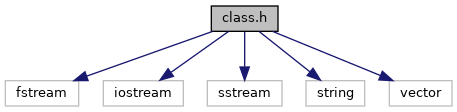
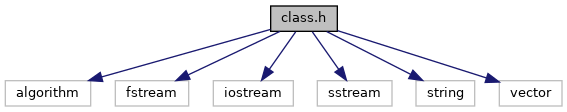
Update Doxy

Changed region(s): [[0.0, 0.0268, 1.0, 0.9643], [0.3063, 0.375, 0.3982, 0.5089], [0.5208, 0.9375, 0.5821, 0.9643]]

diff --git a/html/class_8h_source.html b/html/class_8h_source.html
@@ -66,96 +66,97 @@ $(function() {
 </div><!--header-->
 <div class="contents">
 <a href="class_8h.html">См. документацию.</a><div class="fragment"><div class="line"><a name="l00001"></a><span class="lineno">    1</span>&#160; </div>
-<div class="line"><a name="l00009"></a><span class="lineno">    9</span>&#160;<span class="preprocessor">#include &lt;fstream&gt;</span></div>
-<div class="line"><a name="l00010"></a><span class="lineno">   10</span>&#160;<span class="preprocessor">#include &lt;iostream&gt;</span></div>
-<div class="line"><a name="l00011"></a><span class="lineno">   11</span>&#160;<span class="preprocessor">#include &lt;sstream&gt;</span></div>
-<div class="line"><a name="l00012"></a><span class="lineno">   12</span>&#160;<span class="preprocessor">#include &lt;string&gt;</span></div>
-<div class="line"><a name="l00013"></a><span class="lineno">   13</span>&#160;<span class="preprocessor">#include &lt;vector&gt;</span></div>
-<div class="line"><a name="l00014"></a><span class="lineno">   14</span>&#160; </div>
+<div class="line"><a name="l00009"></a><span class="lineno">    9</span>&#160;<span class="preprocessor">#include &lt;algorithm&gt;</span></div>
+<div class="line"><a name="l00010"></a><span class="lineno">   10</span>&#160;<span class="preprocessor">#include &lt;fstream&gt;</span></div>
+<div class="line"><a name="l00011"></a><span class="lineno">   11</span>&#160;<span class="preprocessor">#include &lt;iostream&gt;</span></div>
+<div class="line"><a name="l00012"></a><span class="lineno">   12</span>&#160;<span class="preprocessor">#include &lt;sstream&gt;</span></div>
+<div class="line"><a name="l00013"></a><span class="lineno">   13</span>&#160;<span class="preprocessor">#include &lt;string&gt;</span></div>
+<div class="line"><a name="l00014"></a><span class="lineno">   14</span>&#160;<span class="preprocessor">#include &lt;vector&gt;</span></div>
 <div class="line"><a name="l00015"></a><span class="lineno">   15</span>&#160; </div>
-<div class="line"><a name="l00016"></a><span class="lineno">   16</span>&#160;<span class="preprocessor">#ifndef CLASSES</span></div>
-<div class="line"><a name="l00017"></a><span class="lineno">   17</span>&#160;<span class="preprocessor">#define CLASSES</span></div>
-<div class="line"><a name="l00018"></a><span class="lineno">   18</span>&#160; </div>
-<div class="line"><a name="l00031"></a><span class="lineno"><a class="line" href="classDate.html">   31</a></span>&#160;<span class="keyword">class </span><a class="code" href="classDate.html">Date</a> {</div>
-<div class="line"><a name="l00032"></a><span class="lineno">   32</span>&#160; </div>
-<div class="line"><a name="l00033"></a><span class="lineno">   33</span>&#160;    <span class="keyword">friend</span> std::ostream&amp; operator&lt;&lt;(std::ostream &amp;os, <span class="keyword">const</span> <a class="code" href="classDate.html">Date</a> &amp;date);</div>
-<div class="line"><a name="l00034"></a><span class="lineno">   34</span>&#160;    <span class="keywordtype">int</span> day, month, year;</div>
-<div class="line"><a name="l00035"></a><span class="lineno">   35</span>&#160; </div>
-<div class="line"><a name="l00036"></a><span class="lineno">   36</span>&#160;<span class="keyword">public</span>:</div>
-<div class="line"><a name="l00037"></a><span class="lineno">   37</span>&#160;    <a class="code" href="classDate.html">Date</a>() : day(0), month(0), year(0) {}</div>
-<div class="line"><a name="l00038"></a><span class="lineno">   38</span>&#160;    <a class="code" href="classDate.html">Date</a>(<span class="keywordtype">int</span> day, <span class="keywordtype">int</span> month, <span class="keywordtype">int</span> year);</div>
-<div class="line"><a name="l00039"></a><span class="lineno">   39</span>&#160; </div>
-<div class="line"><a name="l00041"></a><span class="lineno"><a class="line" href="classDate.html#a7d6dd2901ebf17d14caeecc6bc0cee24">   41</a></span>&#160;    <span class="keywordtype">int</span> <a class="code" href="classDate.html#a7d6dd2901ebf17d14caeecc6bc0cee24">getDay</a>() { <span class="keywordflow">return</span> day; }</div>
-<div class="line"><a name="l00042"></a><span class="lineno">   42</span>&#160; </div>
-<div class="line"><a name="l00044"></a><span class="lineno"><a class="line" href="classDate.html#a04d8a4d8bcfc67f7167c66a635e2f35a">   44</a></span>&#160;    <span class="keywordtype">int</span> <a class="code" href="classDate.html#a04d8a4d8bcfc67f7167c66a635e2f35a">getMonth</a>() { <span class="keywordflow">return</span> month; }</div>
-<div class="line"><a name="l00045"></a><span class="lineno">   45</span>&#160; </div>
-<div class="line"><a name="l00047"></a><span class="lineno"><a class="line" href="classDate.html#a229acd3344780529ba6b7255b87b01f0">   47</a></span>&#160;    <span class="keywordtype">int</span> <a class="code" href="classDate.html#a229acd3344780529ba6b7255b87b01f0">getYear</a>() { <span class="keywordflow">return</span> year; }</div>
-<div class="line"><a name="l00048"></a><span class="lineno">   48</span>&#160; </div>
-<div class="line"><a name="l00049"></a><span class="lineno">   49</span>&#160;    <span class="keywordtype">bool</span> operator==(<span class="keyword">const</span> <a class="code" href="classDate.html">Date</a>&amp; date);</div>
-<div class="line"><a name="l00050"></a><span class="lineno">   50</span>&#160;    <span class="keywordtype">bool</span> operator&gt;(<span class="keyword">const</span> <a class="code" href="classDate.html">Date</a>&amp; date);</div>
-<div class="line"><a name="l00051"></a><span class="lineno">   51</span>&#160;    <span class="keywordtype">bool</span> operator&lt;(<span class="keyword">const</span> <a class="code" href="classDate.html">Date</a>&amp; date);</div>
-<div class="line"><a name="l00052"></a><span class="lineno">   52</span>&#160;    <span class="keywordtype">bool</span> operator!=(<span class="keyword">const</span> <a class="code" href="classDate.html">Date</a>&amp; date);</div>
-<div class="line"><a name="l00053"></a><span class="lineno">   53</span>&#160;    <span class="keywordtype">bool</span> operator&lt;=(<span class="keyword">const</span> <a class="code" href="classDate.html">Date</a>&amp; date);</div>
-<div class="line"><a name="l00054"></a><span class="lineno">   54</span>&#160;    <span class="keywordtype">bool</span> operator&gt;=(<span class="keyword">const</span> <a class="code" href="classDate.html">Date</a>&amp; date);</div>
-<div class="line"><a name="l00055"></a><span class="lineno">   55</span>&#160;};</div>
-<div class="line"><a name="l00074"></a><span class="lineno"><a class="line" href="classEmployee.html">   74</a></span>&#160;<span class="keyword">class </span><a class="code" href="classEmployee.html">Employee</a> {</div>
-<div class="line"><a name="l00075"></a><span class="lineno">   75</span>&#160; </div>
-<div class="line"><a name="l00076"></a><span class="lineno">   76</span>&#160;    <span class="keyword">friend</span> std::ostream&amp; operator&lt;&lt;(std::ostream &amp;os, <span class="keyword">const</span> <a class="code" href="classEmployee.html">Employee</a> &amp;employee);</div>
-<div class="line"><a name="l00077"></a><span class="lineno">   77</span>&#160; </div>
-<div class="line"><a name="l00078"></a><span class="lineno">   78</span>&#160;    std::string fullName;</div>
-<div class="line"><a name="l00079"></a><span class="lineno">   79</span>&#160;    std::string departmentName;</div>
-<div class="line"><a name="l00080"></a><span class="lineno">   80</span>&#160;    std::string jobTitle;</div>
-<div class="line"><a name="l00081"></a><span class="lineno">   81</span>&#160;    <a class="code" href="classDate.html">Date</a> workEntry;</div>
-<div class="line"><a name="l00082"></a><span class="lineno">   82</span>&#160; </div>
-<div class="line"><a name="l00083"></a><span class="lineno">   83</span>&#160;<span class="keyword">public</span>:</div>
-<div class="line"><a name="l00084"></a><span class="lineno">   84</span>&#160;    <a class="code" href="classEmployee.html">Employee</a>(std::string fullName, std::string departmentName, </div>
-<div class="line"><a name="l00085"></a><span class="lineno">   85</span>&#160;             std::string jobTitle, <a class="code" href="classDate.html">Date</a> workEntry);</div>
-<div class="line"><a name="l00086"></a><span class="lineno">   86</span>&#160; </div>
-<div class="line"><a name="l00087"></a><span class="lineno">   87</span>&#160;    <span class="keywordtype">bool</span> operator==(<span class="keyword">const</span> <a class="code" href="classEmployee.html">Employee</a>&amp; employee);</div>
-<div class="line"><a name="l00088"></a><span class="lineno">   88</span>&#160;    <span class="keywordtype">bool</span> operator&gt;(<span class="keyword">const</span> <a class="code" href="classEmployee.html">Employee</a>&amp; employee);</div>
-<div class="line"><a name="l00089"></a><span class="lineno">   89</span>&#160;    <span class="keywordtype">bool</span> operator&lt;(<span class="keyword">const</span> <a class="code" href="classEmployee.html">Employee</a>&amp; employee);</div>
-<div class="line"><a name="l00090"></a><span class="lineno">   90</span>&#160;    <span class="keywordtype">bool</span> operator!=(<span class="keyword">const</span> <a class="code" href="classEmployee.html">Employee</a>&amp; employee);</div>
-<div class="line"><a name="l00091"></a><span class="lineno">   91</span>&#160;    <span class="keywordtype">bool</span> operator&lt;=(<span class="keyword">const</span> <a class="code" href="classEmployee.html">Employee</a>&amp; employee);</div>
-<div class="line"><a name="l00092"></a><span class="lineno">   92</span>&#160;    <span class="keywordtype">bool</span> operator&gt;=(<span class="keyword">const</span> <a class="code" href="classEmployee.html">Employee</a>&amp; employee);</div>
-<div class="line"><a name="l00093"></a><span class="lineno">   93</span>&#160;};</div>
-<div class="line"><a name="l00094"></a><span class="lineno">   94</span>&#160; </div>
-<div class="line"><a name="l00095"></a><span class="lineno">   95</span>&#160;<span class="comment">// WRITE_TO_CSV AND READ_FROM_CSV FUNCTIONS</span></div>
-<div class="line"><a name="l00096"></a><span class="lineno">   96</span>&#160; </div>
-<div class="line"><a name="l00100"></a><span class="lineno">  100</span>&#160;std::vector&lt;Employee&gt; <a class="code" href="class_8h.html#a11edb7904e451afb3e36394037978548">readCSV</a>(<span class="keyword">const</span> std::string&amp; filename);</div>
-<div class="line"><a name="l00101"></a><span class="lineno">  101</span>&#160; </div>
-<div class="line"><a name="l00105"></a><span class="lineno">  105</span>&#160;<span class="keywordtype">void</span> <a class="code" href="class_8h.html#a4e4dcf3b3ddf7d035857ca4520a80494">writeCSV</a>(<span class="keyword">const</span> std::string &amp;filename, std::vector&lt;Employee&gt; employees);</div>
-<div class="line"><a name="l00106"></a><span class="lineno">  106</span>&#160; </div>
-<div class="line"><a name="l00107"></a><span class="lineno">  107</span>&#160;<span class="comment">// SORTING ALGORITHMS</span></div>
-<div class="line"><a name="l00108"></a><span class="lineno">  108</span>&#160; </div>
-<div class="line"><a name="l00110"></a><span class="lineno">  110</span>&#160;<span class="keywordtype">void</span> <a class="code" href="class_8h.html#abc2a348038b12e466b7d4dd153207f57">bubbleSort</a>(std::vector&lt;Employee&gt; &amp;employees);</div>
-<div class="line"><a name="l00111"></a><span class="lineno">  111</span>&#160; </div>
-<div class="line"><a name="l00113"></a><span class="lineno">  113</span>&#160;<span class="keywordtype">void</span> <a class="code" href="class_8h.html#a071eed2e596a0e32ab19a4c09b90cba4">heapSort</a>(std::vector&lt;Employee&gt; &amp;employee);</div>
-<div class="line"><a name="l00114"></a><span class="lineno">  114</span>&#160; </div>
-<div class="line"><a name="l00119"></a><span class="lineno">  119</span>&#160;<span class="keywordtype">void</span> <a class="code" href="class_8h.html#a1e3e2cb5e6a3b602c497ef4d3b68fd2a">mergeSort</a>(std::vector&lt;Employee&gt; &amp;employee, <span class="keywordtype">int</span> left, <span class="keywordtype">int</span> right);</div>
-<div class="line"><a name="l00120"></a><span class="lineno">  120</span>&#160; </div>
-<div class="line"><a name="l00121"></a><span class="lineno">  121</span>&#160;<span class="comment">// SUPPORT FUNCTIONS</span></div>
-<div class="line"><a name="l00122"></a><span class="lineno">  122</span>&#160; </div>
-<div class="line"><a name="l00125"></a><span class="lineno">  125</span>&#160;<span class="keywordtype">bool</span> <a class="code" href="class_8h.html#a6f0679faf5e5d586c9e7268642b85968">isCorrectDate</a>(<span class="keywordtype">int</span> day, <span class="keywordtype">int</span> month, <span class="keywordtype">int</span> year);</div>
-<div class="line"><a name="l00126"></a><span class="lineno">  126</span>&#160; </div>
-<div class="line"><a name="l00130"></a><span class="lineno">  130</span>&#160;<span class="keywordtype">bool</span> <a class="code" href="class_8h.html#a93c048236d65de98aafea9977568b913">isCorrectFormat</a>(std::string date);</div>
-<div class="line"><a name="l00131"></a><span class="lineno">  131</span>&#160; </div>
-<div class="line"><a name="l00135"></a><span class="lineno">  135</span>&#160;<a class="code" href="classDate.html">Date</a> <a class="code" href="class_8h.html#a7f4f8fda271ba0465c8ec4ddd12e6802">fromString</a>(std::string date);</div>
-<div class="line"><a name="l00136"></a><span class="lineno">  136</span>&#160; </div>
-<div class="line"><a name="l00137"></a><span class="lineno">  137</span>&#160;<span class="preprocessor">#endif</span></div>
+<div class="line"><a name="l00016"></a><span class="lineno">   16</span>&#160; </div>
+<div class="line"><a name="l00017"></a><span class="lineno">   17</span>&#160;<span class="preprocessor">#ifndef CLASSES</span></div>
+<div class="line"><a name="l00018"></a><span class="lineno">   18</span>&#160;<span class="preprocessor">#define CLASSES</span></div>
+<div class="line"><a name="l00019"></a><span class="lineno">   19</span>&#160; </div>
+<div class="line"><a name="l00032"></a><span class="lineno"><a class="line" href="classDate.html">   32</a></span>&#160;<span class="keyword">class </span><a class="code" href="classDate.html">Date</a> {</div>
+<div class="line"><a name="l00033"></a><span class="lineno">   33</span>&#160; </div>
+<div class="line"><a name="l00034"></a><span class="lineno">   34</span>&#160;    <span class="keyword">friend</span> std::ostream&amp; operator&lt;&lt;(std::ostream &amp;os, <span class="keyword">const</span> <a class="code" href="classDate.html">Date</a> &amp;date);</div>
+<div class="line"><a name="l00035"></a><span class="lineno">   35</span>&#160;    <span class="keywordtype">int</span> day, month, year;</div>
+<div class="line"><a name="l00036"></a><span class="lineno">   36</span>&#160; </div>
+<div class="line"><a name="l00037"></a><span class="lineno">   37</span>&#160;<span class="keyword">public</span>:</div>
+<div class="line"><a name="l00038"></a><span class="lineno">   38</span>&#160;    <a class="code" href="classDate.html">Date</a>() : day(0), month(0), year(0) {}</div>
+<div class="line"><a name="l00039"></a><span class="lineno">   39</span>&#160;    <a class="code" href="classDate.html">Date</a>(<span class="keywordtype">int</span> day, <span class="keywordtype">int</span> month, <span class="keywordtype">int</span> year);</div>
+<div class="line"><a name="l00040"></a><span class="lineno">   40</span>&#160; </div>
+<div class="line"><a name="l00042"></a><span class="lineno"><a class="line" href="classDate.html#a7d6dd2901ebf17d14caeecc6bc0cee24">   42</a></span>&#160;    <span class="keywordtype">int</span> <a class="code" href="classDate.html#a7d6dd2901ebf17d14caeecc6bc0cee24">getDay</a>() { <span class="keywordflow">return</span> day; }</div>
+<div class="line"><a name="l00043"></a><span class="lineno">   43</span>&#160; </div>
+<div class="line"><a name="l00045"></a><span class="lineno"><a class="line" href="classDate.html#a04d8a4d8bcfc67f7167c66a635e2f35a">   45</a></span>&#160;    <span class="keywordtype">int</span> <a class="code" href="classDate.html#a04d8a4d8bcfc67f7167c66a635e2f35a">getMonth</a>() { <span class="keywordflow">return</span> month; }</div>
+<div class="line"><a name="l00046"></a><span class="lineno">   46</span>&#160; </div>
+<div class="line"><a name="l00048"></a><span class="lineno"><a class="line" href="classDate.html#a229acd3344780529ba6b7255b87b01f0">   48</a></span>&#160;    <span class="keywordtype">int</span> <a class="code" href="classDate.html#a229acd3344780529ba6b7255b87b01f0">getYear</a>() { <span class="keywordflow">return</span> year; }</div>
+<div class="line"><a name="l00049"></a><span class="lineno">   49</span>&#160; </div>
+<div class="line"><a name="l00050"></a><span class="lineno">   50</span>&#160;    <span class="keywordtype">bool</span> operator==(<span class="keyword">const</span> <a class="code" href="classDate.html">Date</a>&amp; date);</div>
+<div class="line"><a name="l00051"></a><span class="lineno">   51</span>&#160;    <span class="keywordtype">bool</span> operator&gt;(<span class="keyword">const</span> <a class="code" href="classDate.html">Date</a>&amp; date);</div>
+<div class="line"><a name="l00052"></a><span class="lineno">   52</span>&#160;    <span class="keywordtype">bool</span> operator&lt;(<span class="keyword">const</span> <a class="code" href="classDate.html">Date</a>&amp; date);</div>
+<div class="line"><a name="l00053"></a><span class="lineno">   53</span>&#160;    <span class="keywordtype">bool</span> operator!=(<span class="keyword">const</span> <a class="code" href="classDate.html">Date</a>&amp; date);</div>
+<div class="line"><a name="l00054"></a><span class="lineno">   54</span>&#160;    <span class="keywordtype">bool</span> operator&lt;=(<span class="keyword">const</span> <a class="code" href="classDate.html">Date</a>&amp; date);</div>
+<div class="line"><a name="l00055"></a><span class="lineno">   55</span>&#160;    <span class="keywordtype">bool</span> operator&gt;=(<span class="keyword">const</span> <a class="code" href="classDate.html">Date</a>&amp; date);</div>
+<div class="line"><a name="l00056"></a><span class="lineno">   56</span>&#160;};</div>
+<div class="line"><a name="l00075"></a><span class="lineno"><a class="line" href="classEmployee.html">   75</a></span>&#160;<span class="keyword">class </span><a class="code" href="classEmployee.html">Employee</a> {</div>
+<div class="line"><a name="l00076"></a><span class="lineno">   76</span>&#160; </div>
+<div class="line"><a name="l00077"></a><span class="lineno">   77</span>&#160;    <span class="keyword">friend</span> std::ostream&amp; operator&lt;&lt;(std::ostream &amp;os, <span class="keyword">const</span> <a class="code" href="classEmployee.html">Employee</a> &amp;employee);</div>
+<div class="line"><a name="l00078"></a><span class="lineno">   78</span>&#160; </div>
+<div class="line"><a name="l00079"></a><span class="lineno">   79</span>&#160;    std::string fullName;</div>
+<div class="line"><a name="l00080"></a><span class="lineno">   80</span>&#160;    std::string departmentName;</div>
+<div class="line"><a name="l00081"></a><span class="lineno">   81</span>&#160;    std::string jobTitle;</div>
+<div class="line"><a name="l00082"></a><span class="lineno">   82</span>&#160;    <a class="code" href="classDate.html">Date</a> workEntry;</div>
+<div class="line"><a name="l00083"></a><span class="lineno">   83</span>&#160; </div>
+<div class="line"><a name="l00084"></a><span class="lineno">   84</span>&#160;<span class="keyword">public</span>:</div>
+<div class="line"><a name="l00085"></a><span class="lineno">   85</span>&#160;    <a class="code" href="classEmployee.html">Employee</a>(std::string fullName, std::string departmentName, </div>
+<div class="line"><a name="l00086"></a><span class="lineno">   86</span>&#160;             std::string jobTitle, <a class="code" href="classDate.html">Date</a> workEntry);</div>
+<div class="line"><a name="l00087"></a><span class="lineno">   87</span>&#160; </div>
+<div class="line"><a name="l00088"></a><span class="lineno">   88</span>&#160;    <span class="keywordtype">bool</span> operator==(<span class="keyword">const</span> <a class="code" href="classEmployee.html">Employee</a>&amp; employee);</div>
+<div class="line"><a name="l00089"></a><span class="lineno">   89</span>&#160;    <span class="keywordtype">bool</span> operator&gt;(<span class="keyword">const</span> <a class="code" href="classEmployee.html">Employee</a>&amp; employee);</div>
+<div class="line"><a name="l00090"></a><span class="lineno">   90</span>&#160;    <span class="keywordtype">bool</span> operator&lt;(<span class="keyword">const</span> <a class="code" href="classEmployee.html">Employee</a>&amp; employee);</div>
+<div class="line"><a name="l00091"></a><span class="lineno">   91</span>&#160;    <span class="keywordtype">bool</span> operator!=(<span class="keyword">const</span> <a class="code" href="classEmployee.html">Employee</a>&amp; employee);</div>
+<div class="line"><a name="l00092"></a><span class="lineno">   92</span>&#160;    <span class="keywordtype">bool</span> operator&lt;=(<span class="keyword">const</span> <a class="code" href="classEmployee.html">Employee</a>&amp; employee);</div>
+<div class="line"><a name="l00093"></a><span class="lineno">   93</span>&#160;    <span class="keywordtype">bool</span> operator&gt;=(<span class="keyword">const</span> <a class="code" href="classEmployee.html">Employee</a>&amp; employee);</div>
+<div class="line"><a name="l00094"></a><span class="lineno">   94</span>&#160;};</div>
+<div class="line"><a name="l00095"></a><span class="lineno">   95</span>&#160; </div>
+<div class="line"><a name="l00096"></a><span class="lineno">   96</span>&#160;<span class="comment">// WRITE_TO_CSV AND READ_FROM_CSV FUNCTIONS</span></div>
+<div class="line"><a name="l00097"></a><span class="lineno">   97</span>&#160; </div>
+<div class="line"><a name="l00101"></a><span class="lineno">  101</span>&#160;std::vector&lt;Employee&gt; <a class="code" href="class_8h.html#a11edb7904e451afb3e36394037978548">readCSV</a>(<span class="keyword">const</span> std::string&amp; filename);</div>
+<div class="line"><a name="l00102"></a><span class="lineno">  102</span>&#160; </div>
+<div class="line"><a name="l00106"></a><span class="lineno">  106</span>&#160;<span class="keywordtype">void</span> <a class="code" href="class_8h.html#a4e4dcf3b3ddf7d035857ca4520a80494">writeCSV</a>(<span class="keyword">const</span> std::string &amp;filename, std::vector&lt;Employee&gt; employees);</div>
+<div class="line"><a name="l00107"></a><span class="lineno">  107</span>&#160; </div>
+<div class="line"><a name="l00108"></a><span class="lineno">  108</span>&#160;<span class="comment">// SORTING ALGORITHMS</span></div>
+<div class="line"><a name="l00109"></a><span class="lineno">  109</span>&#160; </div>
+<div class="line"><a name="l00111"></a><span class="lineno">  111</span>&#160;<span class="keywordtype">void</span> <a class="code" href="class_8h.html#abc2a348038b12e466b7d4dd153207f57">bubbleSort</a>(std::vector&lt;Employee&gt; &amp;employees);</div>
+<div class="line"><a name="l00112"></a><span class="lineno">  112</span>&#160; </div>
+<div class="line"><a name="l00114"></a><span class="lineno">  114</span>&#160;<span class="keywordtype">void</span> <a class="code" href="class_8h.html#a071eed2e596a0e32ab19a4c09b90cba4">heapSort</a>(std::vector&lt;Employee&gt; &amp;employee);</div>
+<div class="line"><a name="l00115"></a><span class="lineno">  115</span>&#160; </div>
+<div class="line"><a name="l00120"></a><span class="lineno">  120</span>&#160;<span class="keywordtype">void</span> <a class="code" href="class_8h.html#a1e3e2cb5e6a3b602c497ef4d3b68fd2a">mergeSort</a>(std::vector&lt;Employee&gt; &amp;employee, <span class="keywordtype">int</span> left, <span class="keywordtype">int</span> right);</div>
+<div class="line"><a name="l00121"></a><span class="lineno">  121</span>&#160; </div>
+<div class="line"><a name="l00122"></a><span class="lineno">  122</span>&#160;<span class="comment">// SUPPORT FUNCTIONS</span></div>
+<div class="line"><a name="l00123"></a><span class="lineno">  123</span>&#160; </div>
+<div class="line"><a name="l00126"></a><span class="lineno">  126</span>&#160;<span class="keywordtype">bool</span> <a class="code" href="class_8h.html#a6f0679faf5e5d586c9e7268642b85968">isCorrectDate</a>(<span class="keywordtype">int</span> day, <span class="keywordtype">int</span> month, <span class="keywordtype">int</span> year);</div>
+<div class="line"><a name="l00127"></a><span class="lineno">  127</span>&#160; </div>
+<div class="line"><a name="l00131"></a><span class="lineno">  131</span>&#160;<span class="keywordtype">bool</span> <a class="code" href="class_8h.html#a93c048236d65de98aafea9977568b913">isCorrectFormat</a>(std::string date);</div>
+<div class="line"><a name="l00132"></a><span class="lineno">  132</span>&#160; </div>
+<div class="line"><a name="l00136"></a><span class="lineno">  136</span>&#160;<a class="code" href="classDate.html">Date</a> <a class="code" href="class_8h.html#a7f4f8fda271ba0465c8ec4ddd12e6802">fromString</a>(std::string date);</div>
+<div class="line"><a name="l00137"></a><span class="lineno">  137</span>&#160; </div>
+<div class="line"><a name="l00138"></a><span class="lineno">  138</span>&#160;<span class="preprocessor">#endif</span></div>
 </div><!-- fragment --></div><!-- contents -->
-<div class="ttc" id="aclassDate_html_a229acd3344780529ba6b7255b87b01f0"><div class="ttname"><a href="classDate.html#a229acd3344780529ba6b7255b87b01f0">Date::getYear</a></div><div class="ttdeci">int getYear()</div><div class="ttdoc">Возвращает значение поля &quot;year&quot;.</div><div class="ttdef"><b>Definition:</b> class.h:47</div></div>
-<div class="ttc" id="aclassDate_html_a04d8a4d8bcfc67f7167c66a635e2f35a"><div class="ttname"><a href="classDate.html#a04d8a4d8bcfc67f7167c66a635e2f35a">Date::getMonth</a></div><div class="ttdeci">int getMonth()</div><div class="ttdoc">Возвращает значение поля &quot;month&quot;.</div><div class="ttdef"><b>Definition:</b> class.h:44</div></div>
-<div class="ttc" id="aclassEmployee_html"><div class="ttname"><a href="classEmployee.html">Employee</a></div><div class="ttdoc">Класс для работы с данными сотрудников предприятий</div><div class="ttdef"><b>Definition:</b> class.h:74</div></div>
-<div class="ttc" id="aclassDate_html_a7d6dd2901ebf17d14caeecc6bc0cee24"><div class="ttname"><a href="classDate.html#a7d6dd2901ebf17d14caeecc6bc0cee24">Date::getDay</a></div><div class="ttdeci">int getDay()</div><div class="ttdoc">Возвращает значение поля &quot;day&quot;.</div><div class="ttdef"><b>Definition:</b> class.h:41</div></div>
-<div class="ttc" id="aclass_8h_html_a1e3e2cb5e6a3b602c497ef4d3b68fd2a"><div class="ttname"><a href="class_8h.html#a1e3e2cb5e6a3b602c497ef4d3b68fd2a">mergeSort</a></div><div class="ttdeci">void mergeSort(std::vector&lt; Employee &gt; &amp;employee, int left, int right)</div><div class="ttdoc">Функция реализует сортировку слиянием</div><div class="ttdef"><b>Definition:</b> employee.cpp:192</div></div>
-<div class="ttc" id="aclass_8h_html_a071eed2e596a0e32ab19a4c09b90cba4"><div class="ttname"><a href="class_8h.html#a071eed2e596a0e32ab19a4c09b90cba4">heapSort</a></div><div class="ttdeci">void heapSort(std::vector&lt; Employee &gt; &amp;employee)</div><div class="ttdoc">Функция реализует пиромидальную сортировку, или сортировку кучей</div><div class="ttdef"><b>Definition:</b> employee.cpp:180</div></div>
-<div class="ttc" id="aclass_8h_html_a11edb7904e451afb3e36394037978548"><div class="ttname"><a href="class_8h.html#a11edb7904e451afb3e36394037978548">readCSV</a></div><div class="ttdeci">std::vector&lt; Employee &gt; readCSV(const std::string &amp;filename)</div><div class="ttdoc">Функция считывает данные из csv файла и создает вектор из объектов класса Employee.</div><div class="ttdef"><b>Definition:</b> employee.cpp:97</div></div>
-<div class="ttc" id="aclass_8h_html_abc2a348038b12e466b7d4dd153207f57"><div class="ttname"><a href="class_8h.html#abc2a348038b12e466b7d4dd153207f57">bubbleSort</a></div><div class="ttdeci">void bubbleSort(std::vector&lt; Employee &gt; &amp;employees)</div><div class="ttdoc">Функция реализует сортировку пузырьком для</div><div class="ttdef"><b>Definition:</b> employee.cpp:152</div></div>
+<div class="ttc" id="aclassDate_html_a229acd3344780529ba6b7255b87b01f0"><div class="ttname"><a href="classDate.html#a229acd3344780529ba6b7255b87b01f0">Date::getYear</a></div><div class="ttdeci">int getYear()</div><div class="ttdoc">Возвращает значение поля &quot;year&quot;.</div><div class="ttdef"><b>Definition:</b> class.h:48</div></div>
+<div class="ttc" id="aclassDate_html_a04d8a4d8bcfc67f7167c66a635e2f35a"><div class="ttname"><a href="classDate.html#a04d8a4d8bcfc67f7167c66a635e2f35a">Date::getMonth</a></div><div class="ttdeci">int getMonth()</div><div class="ttdoc">Возвращает значение поля &quot;month&quot;.</div><div class="ttdef"><b>Definition:</b> class.h:45</div></div>
+<div class="ttc" id="aclassEmployee_html"><div class="ttname"><a href="classEmployee.html">Employee</a></div><div class="ttdoc">Класс для работы с данными сотрудников предприятий</div><div class="ttdef"><b>Definition:</b> class.h:75</div></div>
+<div class="ttc" id="aclassDate_html_a7d6dd2901ebf17d14caeecc6bc0cee24"><div class="ttname"><a href="classDate.html#a7d6dd2901ebf17d14caeecc6bc0cee24">Date::getDay</a></div><div class="ttdeci">int getDay()</div><div class="ttdoc">Возвращает значение поля &quot;day&quot;.</div><div class="ttdef"><b>Definition:</b> class.h:42</div></div>
+<div class="ttc" id="aclass_8h_html_a1e3e2cb5e6a3b602c497ef4d3b68fd2a"><div class="ttname"><a href="class_8h.html#a1e3e2cb5e6a3b602c497ef4d3b68fd2a">mergeSort</a></div><div class="ttdeci">void mergeSort(std::vector&lt; Employee &gt; &amp;employee, int left, int right)</div><div class="ttdoc">Функция реализует сортировку слиянием</div><div class="ttdef"><b>Definition:</b> employee.cpp:191</div></div>
+<div class="ttc" id="aclass_8h_html_a071eed2e596a0e32ab19a4c09b90cba4"><div class="ttname"><a href="class_8h.html#a071eed2e596a0e32ab19a4c09b90cba4">heapSort</a></div><div class="ttdeci">void heapSort(std::vector&lt; Employee &gt; &amp;employee)</div><div class="ttdoc">Функция реализует пиромидальную сортировку, или сортировку кучей</div><div class="ttdef"><b>Definition:</b> employee.cpp:179</div></div>
+<div class="ttc" id="aclass_8h_html_a11edb7904e451afb3e36394037978548"><div class="ttname"><a href="class_8h.html#a11edb7904e451afb3e36394037978548">readCSV</a></div><div class="ttdeci">std::vector&lt; Employee &gt; readCSV(const std::string &amp;filename)</div><div class="ttdoc">Функция считывает данные из csv файла и создает вектор из объектов класса Employee.</div><div class="ttdef"><b>Definition:</b> employee.cpp:96</div></div>
+<div class="ttc" id="aclass_8h_html_abc2a348038b12e466b7d4dd153207f57"><div class="ttname"><a href="class_8h.html#abc2a348038b12e466b7d4dd153207f57">bubbleSort</a></div><div class="ttdeci">void bubbleSort(std::vector&lt; Employee &gt; &amp;employees)</div><div class="ttdoc">Функция реализует сортировку пузырьком для</div><div class="ttdef"><b>Definition:</b> employee.cpp:151</div></div>
 <div class="ttc" id="aclass_8h_html_a7f4f8fda271ba0465c8ec4ddd12e6802"><div class="ttname"><a href="class_8h.html#a7f4f8fda271ba0465c8ec4ddd12e6802">fromString</a></div><div class="ttdeci">Date fromString(std::string date)</div><div class="ttdoc">Переводит std::string в Date.</div><div class="ttdef"><b>Definition:</b> date.cpp:20</div></div>
-<div class="ttc" id="aclass_8h_html_a4e4dcf3b3ddf7d035857ca4520a80494"><div class="ttname"><a href="class_8h.html#a4e4dcf3b3ddf7d035857ca4520a80494">writeCSV</a></div><div class="ttdeci">void writeCSV(const std::string &amp;filename, std::vector&lt; Employee &gt; employees)</div><div class="ttdoc">Функция записывает объекты класса Employee в файл</div><div class="ttdef"><b>Definition:</b> employee.cpp:135</div></div>
+<div class="ttc" id="aclass_8h_html_a4e4dcf3b3ddf7d035857ca4520a80494"><div class="ttname"><a href="class_8h.html#a4e4dcf3b3ddf7d035857ca4520a80494">writeCSV</a></div><div class="ttdeci">void writeCSV(const std::string &amp;filename, std::vector&lt; Employee &gt; employees)</div><div class="ttdoc">Функция записывает объекты класса Employee в файл</div><div class="ttdef"><b>Definition:</b> employee.cpp:134</div></div>
 <div class="ttc" id="aclass_8h_html_a6f0679faf5e5d586c9e7268642b85968"><div class="ttname"><a href="class_8h.html#a6f0679faf5e5d586c9e7268642b85968">isCorrectDate</a></div><div class="ttdeci">bool isCorrectDate(int day, int month, int year)</div><div class="ttdoc">Проверяет корректна ли введенная дата (с учетом високосного года)</div><div class="ttdef"><b>Definition:</b> date.cpp:43</div></div>
 <div class="ttc" id="aclass_8h_html_a93c048236d65de98aafea9977568b913"><div class="ttname"><a href="class_8h.html#a93c048236d65de98aafea9977568b913">isCorrectFormat</a></div><div class="ttdeci">bool isCorrectFormat(std::string date)</div><div class="ttdoc">Проверяет, соответствует ли строка таким форматам: &quot;D*-M*-Y*&quot;, &quot;D*/M*/Y*&quot;, &quot;D*.M*....</div><div class="ttdef"><b>Definition:</b> date.cpp:7</div></div>
-<div class="ttc" id="aclassDate_html"><div class="ttname"><a href="classDate.html">Date</a></div><div class="ttdoc">Класс, созданный для работы с датами</div><div class="ttdef"><b>Definition:</b> class.h:31</div></div>
+<div class="ttc" id="aclassDate_html"><div class="ttname"><a href="classDate.html">Date</a></div><div class="ttdoc">Класс, созданный для работы с датами</div><div class="ttdef"><b>Definition:</b> class.h:32</div></div>
 <!-- start footer part -->
 <hr class="footer"/><address class="footer"><small>
 Создано системой &#160;<a href="http://www.doxygen.org/index.html">

diff --git a/html/class_8h.html b/html/class_8h.html
@@ -71,7 +71,8 @@ $(function() {
 
 <p>Файл с основным классом, дополнительным и сортировками В данном файле описаны следующие классы:  
 <a href="#details">Подробнее...</a></p>
-<div class="textblock"><code>#include &lt;fstream&gt;</code><br />
+<div class="textblock"><code>#include &lt;algorithm&gt;</code><br />
+<code>#include &lt;fstream&gt;</code><br />
 <code>#include &lt;iostream&gt;</code><br />
 <code>#include &lt;sstream&gt;</code><br />
 <code>#include &lt;string&gt;</code><br />
@@ -81,12 +82,13 @@ $(function() {
 <div class="dyncontent">
 <div class="center"><img src="class_8h__incl.png" border="0" usemap="#class_8h" alt=""/></div>
 <map name="class_8h" id="class_8h">
-<area shape="rect" title="Файл с основным классом, дополнительным и сортировками В данном файле описаны следующие классы:" alt="" coords="211,5,278,32"/>
-<area shape="rect" title=" " alt="" coords="5,80,79,107"/>
-<area shape="rect" title=" " alt="" coords="103,80,183,107"/>
-<area shape="rect" title=" " alt="" coords="207,80,282,107"/>
-<area shape="rect" title=" " alt="" coords="306,80,365,107"/>
-<area shape="rect" title=" " alt="" coords="389,80,452,107"/>
+<area shape="rect" title="Файл с основным классом, дополнительным и сортировками В данном файле описаны следующие классы:" alt="" coords="271,5,337,32"/>
+<area shape="rect" title=" " alt="" coords="5,80,91,107"/>
+<area shape="rect" title=" " alt="" coords="115,80,189,107"/>
+<area shape="rect" title=" " alt="" coords="213,80,293,107"/>
+<area shape="rect" title=" " alt="" coords="317,80,392,107"/>
+<area shape="rect" title=" " alt="" coords="416,80,475,107"/>
+<area shape="rect" title=" " alt="" coords="499,80,562,107"/>
 </map>
 </div>
 </div>
